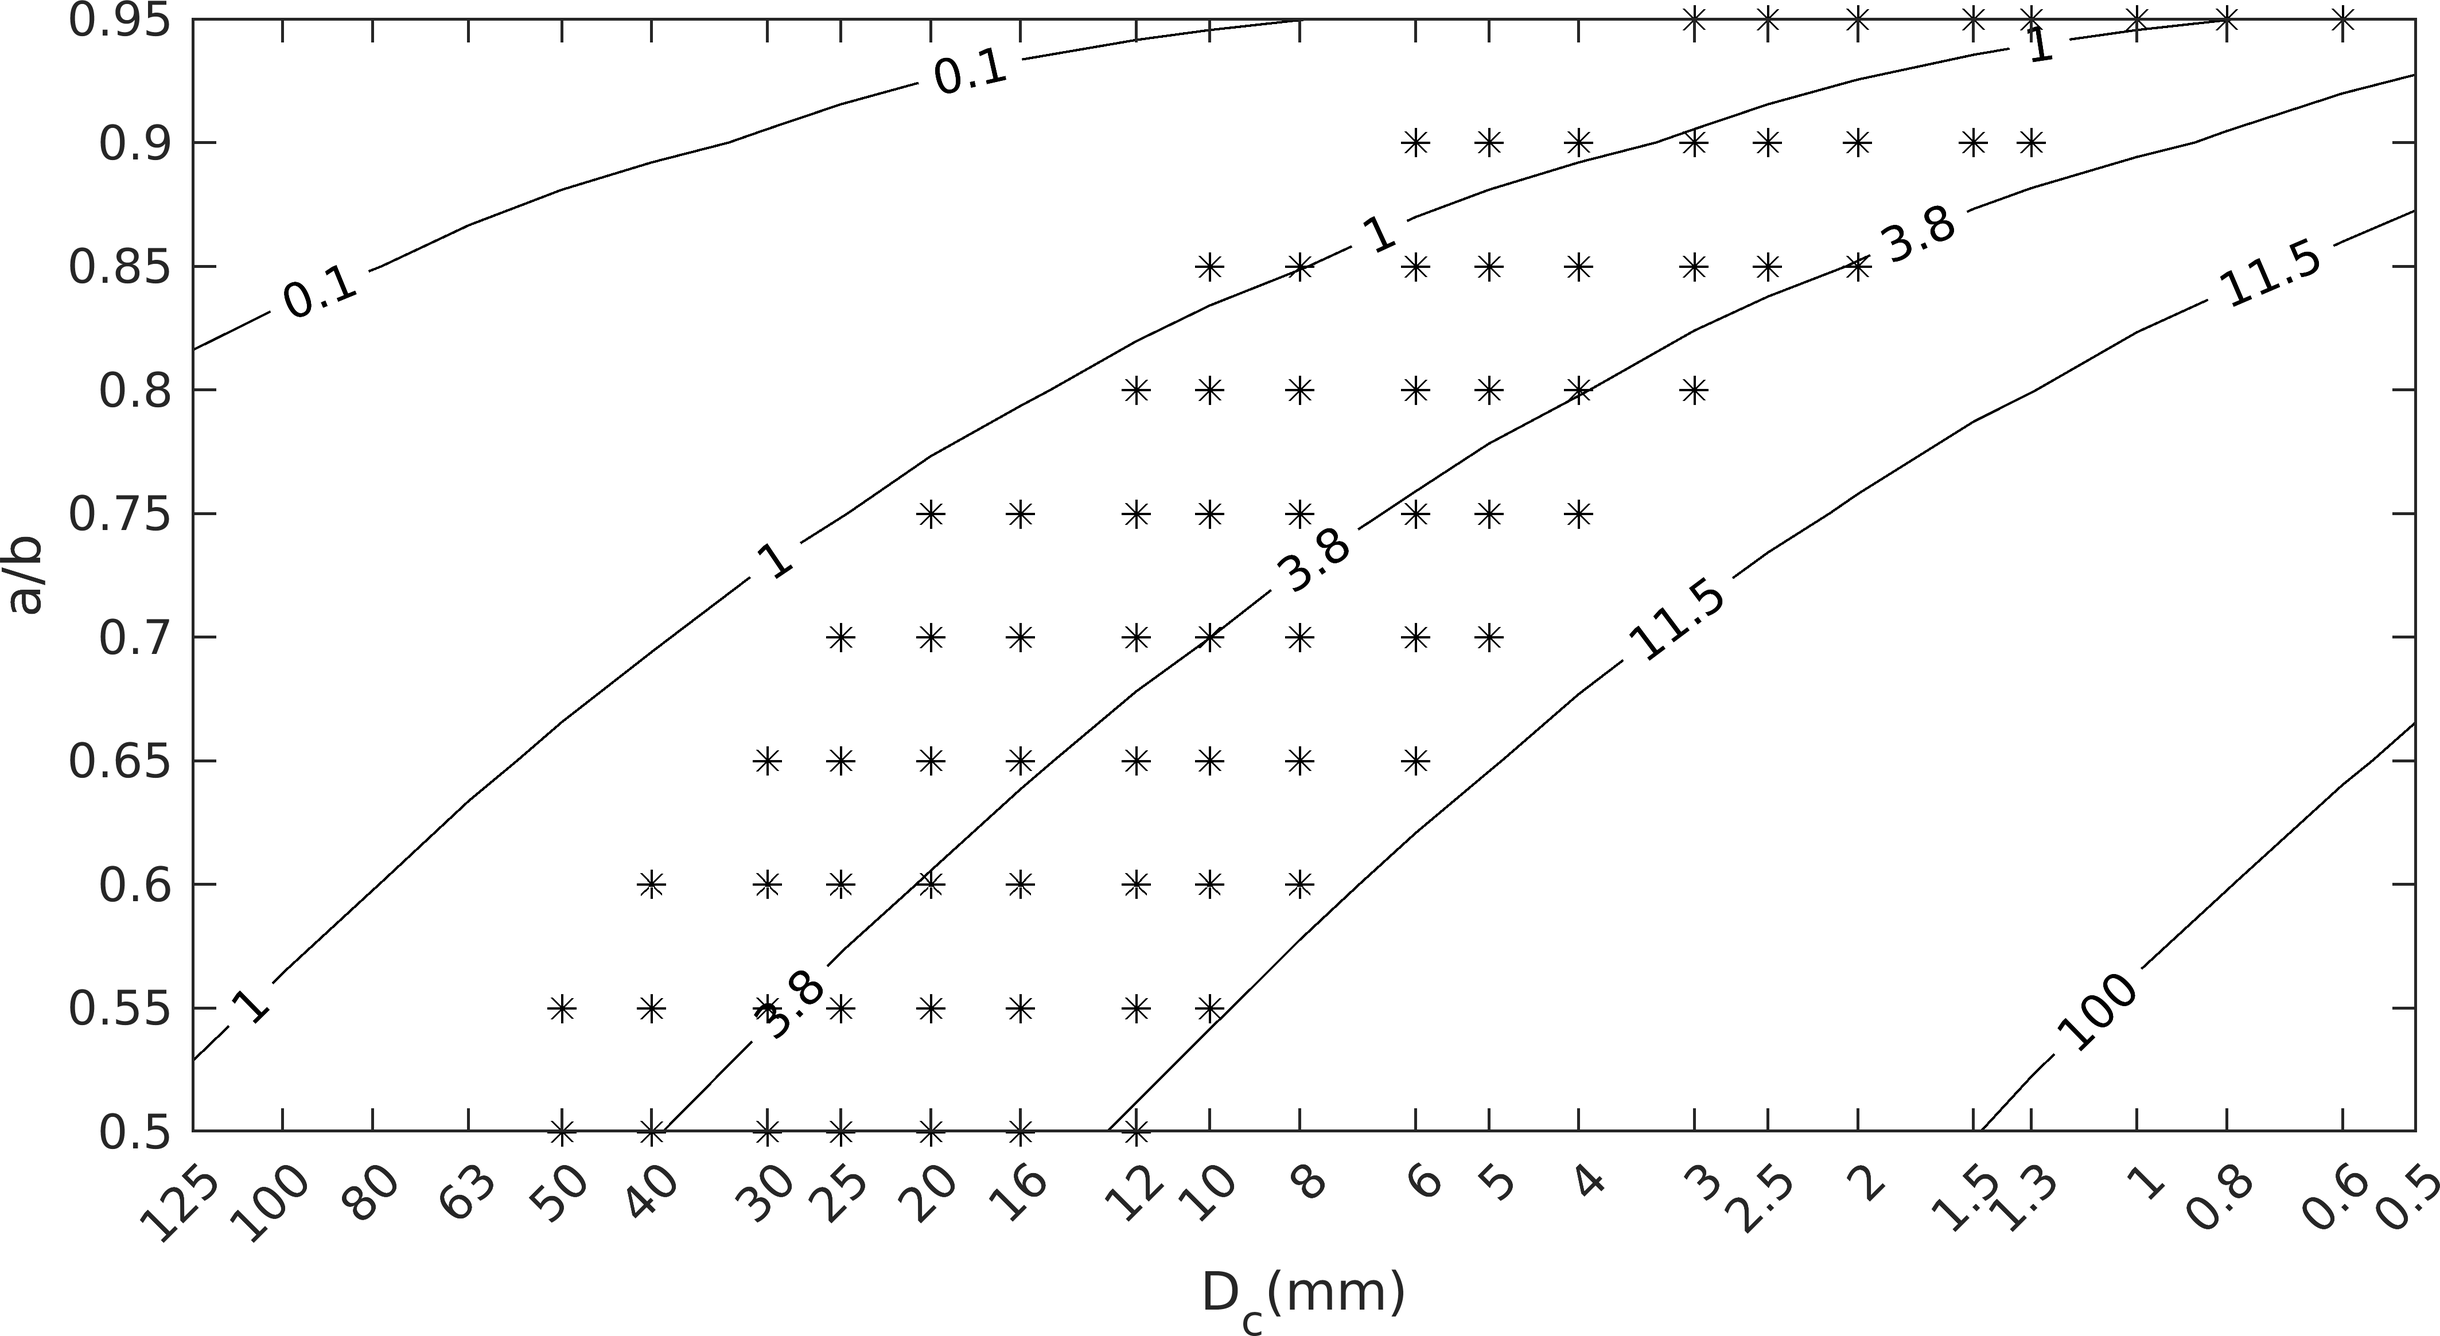
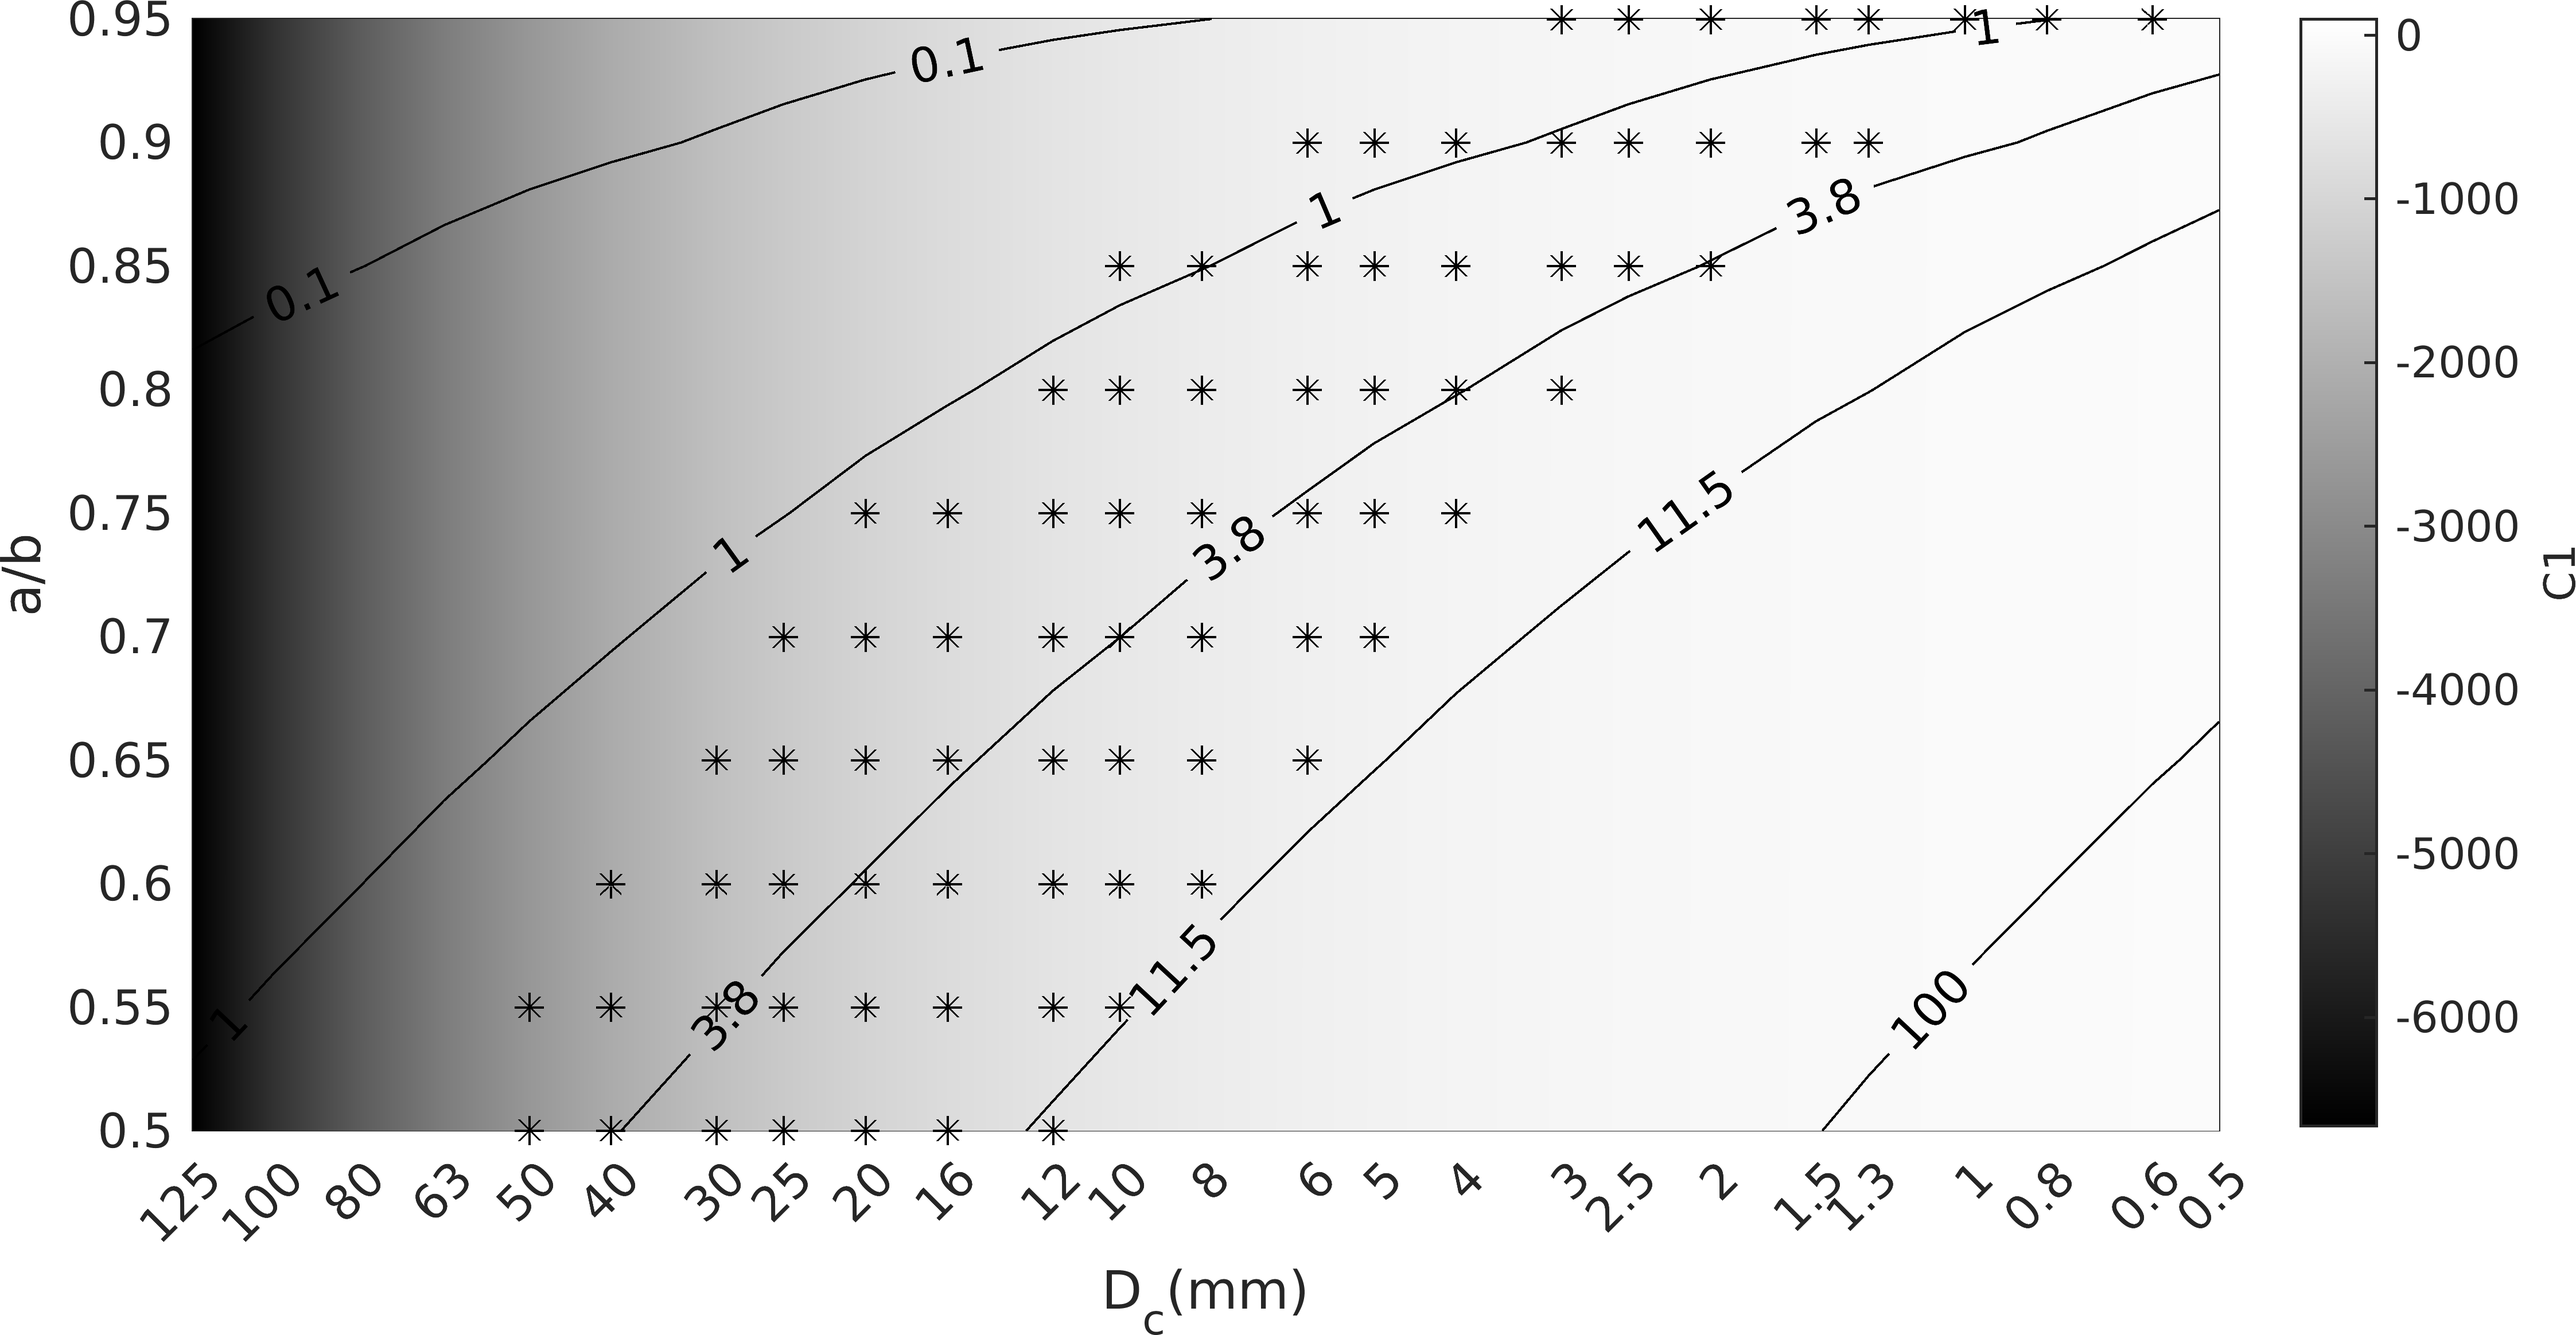
radiation efficiency

diff --git a/Matlab/phase_diagram/Ru_b_Dc_Rubin_Ampuero.m b/Matlab/phase_diagram/Ru_b_Dc_Rubin_Ampuero.m
@@ -40,6 +40,7 @@ for i = 1:length(b)
 %             end
             Ru(i,j,k) = W/y;
             Cohesive(i,j,k) = (9*pi/32)*mu_D*r*L(j)/b(i)./sigma;
+            C_1(i,j,k) = b(i)/a*(1-mu*L(j)/b(i)/sigma);
 %            Ru(i,j,k) = W/(mu_D*L(j)/sigma/(b(i)-a));
         end
     end
@@ -61,6 +62,13 @@ set(gcf,'Position',[20 20 800 400]);%左下角位置，宽高
 % c = colorbar;
 % ylabel(c, '3*Cohesive zone size(m)')
 % hold on
+pcolor(X,Y,C_1')
+shading interp
+colormap(gray)
+% clim([0 75])
+c = colorbar;
+ylabel(c, 'C1')
+hold on
 [c,h]=contour(X,Y,Ru',v);
 clabel(c,h)
 set(h,"color","black")
